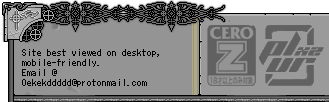
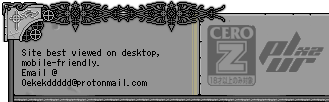
.

Changed region(s): [[0.7903, 0.6176, 0.9726, 0.8529], [0.7903, 0.2353, 0.9726, 0.4412]]

diff --git a/ui/css.css b/ui/css.css
@@ -1,5 +1,4 @@
 /* GLOBAL ROOT */
-@font-face {font-family: "kiwisoda"; src: url("../fonts/kiwisoda.ttf");}
 @font-face {font-family: "pritchard"; src: url("../fonts/pritchard.otf");}
 @font-face {font-family: hack; src: url("../fonts/hack-regular.woff") format("woff");}
 :root{
@@ -103,12 +102,14 @@ footer{height:80px; background-repeat: no-repeat !important;}
     > div{background:#ffffff; box-shadow:inset 0px 0px 3px -1px #000000; border: #787878 1px solid; padding:0px;}
   }
 }
-#body, #singleBody{.panel-wrapper{background:url('theme/panelWrapper_rBorder.png') left 8px top repeat-y, url('theme/panelWrapper_lBorder.png') top right repeat-y;} header{ text-align:end;}}
 #body aside > div {background: var(--divSolid); box-shadow: 4px 3px 9px -4px #00000070; text-shadow:none !important; width:89%; margin:0px auto 10px auto; border: solid 1px; border-radius:4px;}
 #body aside, #singleBody main { > article, > div{border-color:#949494;}}
 #body, #singleBody{
   header, footer{image-rendering:crisp-edges; button{color:#000000; margin:0px 1px 0px 1px; box-shadow:0px 1px 0px 0px #9c9c9c; background: linear-gradient(#7a7a7a, #606060, #4a4a4a); border:1px solid #303030; padding:2px; border-radius:3px;} button:hover{background: linear-gradient(#4a4a4a, #606060, #7a7a7a);}}
-  header{background:url('theme/body_header_frame.png') top right no-repeat, var(--headerLinkGraphic), url('theme/body_lHeader.png') top left no-repeat, url('theme/body_mHeader.png') top center no-repeat !important;}
+  header{background:url('theme/body_header_frame.png') top right no-repeat, var(--headerLinkGraphic), url('theme/body_lHeader.png') top left no-repeat, url('theme/body_mHeader.png') top center no-repeat !important; text-align:end;
+    > div{overflow-y:scroll; border:1px #000000 solid; width:260px; height:67px; background:#ffffff; top:11px; right:-392px;}
+  }
+  .panel-wrapper{background:url('theme/panelWrapper_rBorder.png') left 8px top repeat-y, url('theme/panelWrapper_lBorder.png') top right repeat-y;}
   footer{text-align:end; background:url('theme/body_rFooter.png') top right no-repeat, url('theme/body_lFooter.png') no-repeat top left, url('theme/body_mFooter.png') top center repeat-y; padding:15px 10px 10px 46px;}
 }
 /*GLOBAL HTML THEME END*/
@@ -196,7 +197,7 @@ footer{height:80px; background-repeat: no-repeat !important;}
 .image:hover{border:1px #f50f0f solid;}
 .recentlyUpdated{background:url('icons/flag.gif') top -3px left 2px no-repeat, url("backgrounds/tone.png"); padding-left: 32px;}
 #eventsWidget, #kofiWidget{> div{border:1px solid #000000;}}
-#eventsWidget{ background:url('backgrounds/aspen.jpg') !important; width:95%; border-style:solid !important; border-color:#000000 !important; border-radius:5px;
+#eventsWidget{ width:95%; border-style:solid !important; border-radius:5px;
   > div{background:url('backgrounds/reader_scrll.png') no-repeat top right 3px, url("backgrounds/dotted_paper.png"), #ffffff; margin:3px; height:100px; box-shadow: #0000006b 0px 2px 5px inset; overflow-y:scroll;}
   p{ padding:0px 5px 0px 5px !important; margin:3px;border-radius:3px; padding:5px 0px 5px 0px;}
 }

diff --git a/index.html b/index.html
@@ -7,7 +7,7 @@
 <link rel="shortcut icon" type="image/jpg" href="favicon.png">
 <meta name="viewport" content="width=device-width">
 <meta name="description" content="texas kiss rhinestone - homepage">
-<meta property="og:image" content="https://texaskissrhinestone.github.io/preview.jpg"/>
+<meta property="og:image" content="preview.jpg"/>
 <script src="ui/ui.js"></script>
 <link rel="stylesheet" href="ui/css.css">
 <meta name="author" content="tkr">
